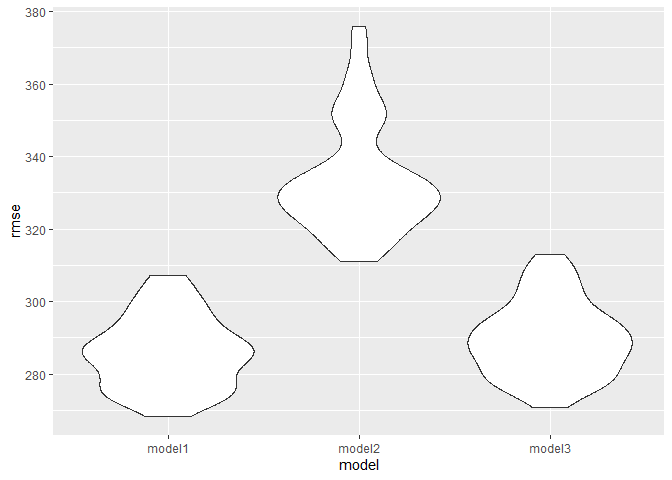
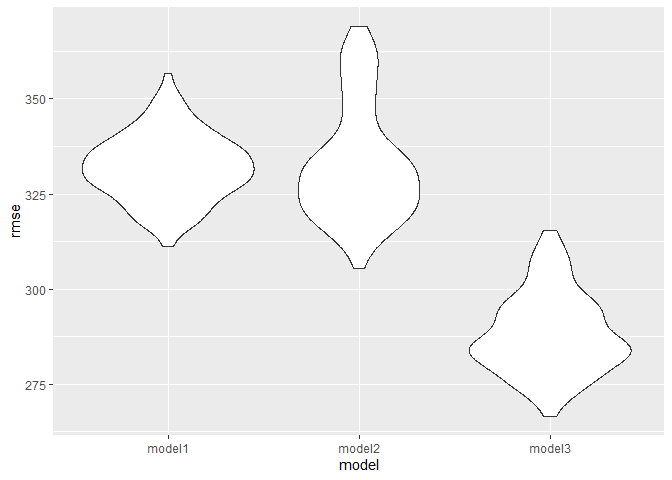
Comparison of the three models

diff --git a/p8105_hw6_hw2861.md b/p8105_hw6_hw2861.md
@@ -158,16 +158,16 @@ birthweight_df =
     newborns”. Some of the widely mentioned hypothesized predictors are
     “mother’s weight at birth” and “Gender”.
 
-Also, other measurements of the child’s body are the important factors
-in birth weight. So, i include the (baby’s length and head
-circumference) as predictors..
+-   Also, other body measurements of the newborn are the important
+    reference in birth weight. So, i include the head circumference as
+    predictors.
 
 According to the hypothesized structure for the factors that underly
 birthweight, i proposed a regression model for **bwt**.
 
 ``` r
 bwt_model1 =
-  lm(bwt ~ babysex + delwt + blength* bhead, data = birthweight_df)
+  lm(bwt ~ babysex + delwt + bhead, data = birthweight_df)
 ```
 
 ### Create predictions and residuals for the model
@@ -218,7 +218,7 @@ cv_df =
 cv_df = 
   cv_df %>% 
   mutate(
-    bwt_model1  = map(train, ~lm(bwt ~ babysex + delwt + blength*bhead, data = .x)),
+    bwt_model1  = map(train, ~lm(bwt ~ babysex + delwt + bhead, data = .x)),
     bwt_model2 = map(train, ~lm(bwt ~ blength + gaweeks, data = .x)),
     bwt_model3  = map(train, ~lm(bwt ~ bhead * blength * babysex, data = .x))) %>% 
     mutate(
@@ -243,6 +243,6 @@ cv_df %>%
 
 ![](p8105_hw6_hw2861_files/figure-gfm/unnamed-chunk-9-1.png)<!-- -->
 
-Based on the results of rmse, I would choose **bwt_model1** as the best
+Based on the results of rmse, I would choose **bwt_model3** as the best
 fit model among the three. Since it has the lowest root mean squared
 error.
